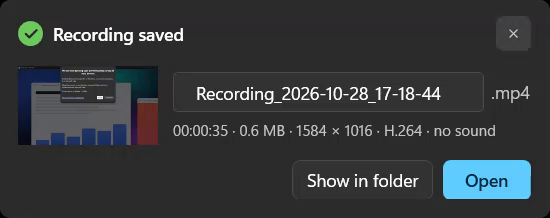
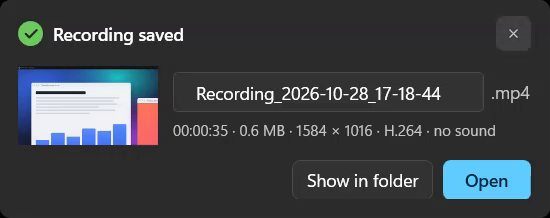
README: language at first start; notices; clean notification picture

Changed region(s): [[0.0309, 0.3028, 0.3091, 0.6881]]

diff --git a/README.ru.md b/README.ru.md
@@ -32,7 +32,9 @@
 - **Быстро**: аппаратное кодирование Intel Quick Sync (H.264 или AV1), на другом железе — встроенный
   кодировщик H.264 Windows. Сохранение — переименование файла, а не второй проход.
 - Живёт в **трее**: крестик прячет окно, горячие клавиши продолжают работать.
-- Интерфейс на **русском и английском**, светлая и тёмная тема — как в Windows.
+- Интерфейс на **русском и английском** — при первом запуске на языке Windows (на русской Windows
+  по-русски, иначе по-английски), меняется в **Настройки → Общие → Язык**; светлая и тёмная тема —
+  как в Windows.
 
 <p align="center">
   <img src="docs/images/panel-ru.png" alt="Плавающая панель во время записи: таймер, уровни микрофона и системного звука, пауза, стоп" width="460"><br>

diff --git a/CHANGELOG.md b/CHANGELOG.md
@@ -10,6 +10,7 @@
 - All screens at once: in one video, laid out as in Windows display settings, or each screen into its own file.
 - Kadr's window hides while you select a region, so it never covers what you select.
 - The default audio track is encoded at a higher bitrate, so Windows players always play the mix.
+- The first start uses your Windows language (English or Russian).
 
 **Русский**
 
@@ -19,6 +20,7 @@
 - Все экраны сразу: одним видео, как экраны стоят в параметрах Windows, или каждый экран своим файлом.
 - Окно Kadr прячется на время выделения области и не закрывает то, что выделяете.
 - Основная звуковая дорожка кодируется с большим битрейтом, поэтому плееры Windows всегда играют микс.
+- При первом запуске язык интерфейса берётся из Windows (русский или английский).
 
 ## 1.0.0
 

diff --git a/README.md b/README.md
@@ -32,7 +32,9 @@ limits, no account, no telemetry, no automatic updates.
 - **Fast**: hardware encoding with Intel Quick Sync (H.264 or AV1), or Windows' own H.264 encoder on
   other hardware. Saving is a rename, not a second pass.
 - Lives in the **tray**: the close button hides the window, shortcuts keep working.
-- Interface in **English and Russian**, light and dark theme following Windows.
+- Interface in **English and Russian** — it starts in your Windows language (Russian on a Russian
+  Windows, English otherwise) and can be switched in **Settings → General → Language**; light and
+  dark theme following Windows.
 
 <p align="center">
   <img src="docs/images/panel-en.png" alt="The floating panel while recording: timer, microphone and system sound levels, pause, stop" width="460"><br>
